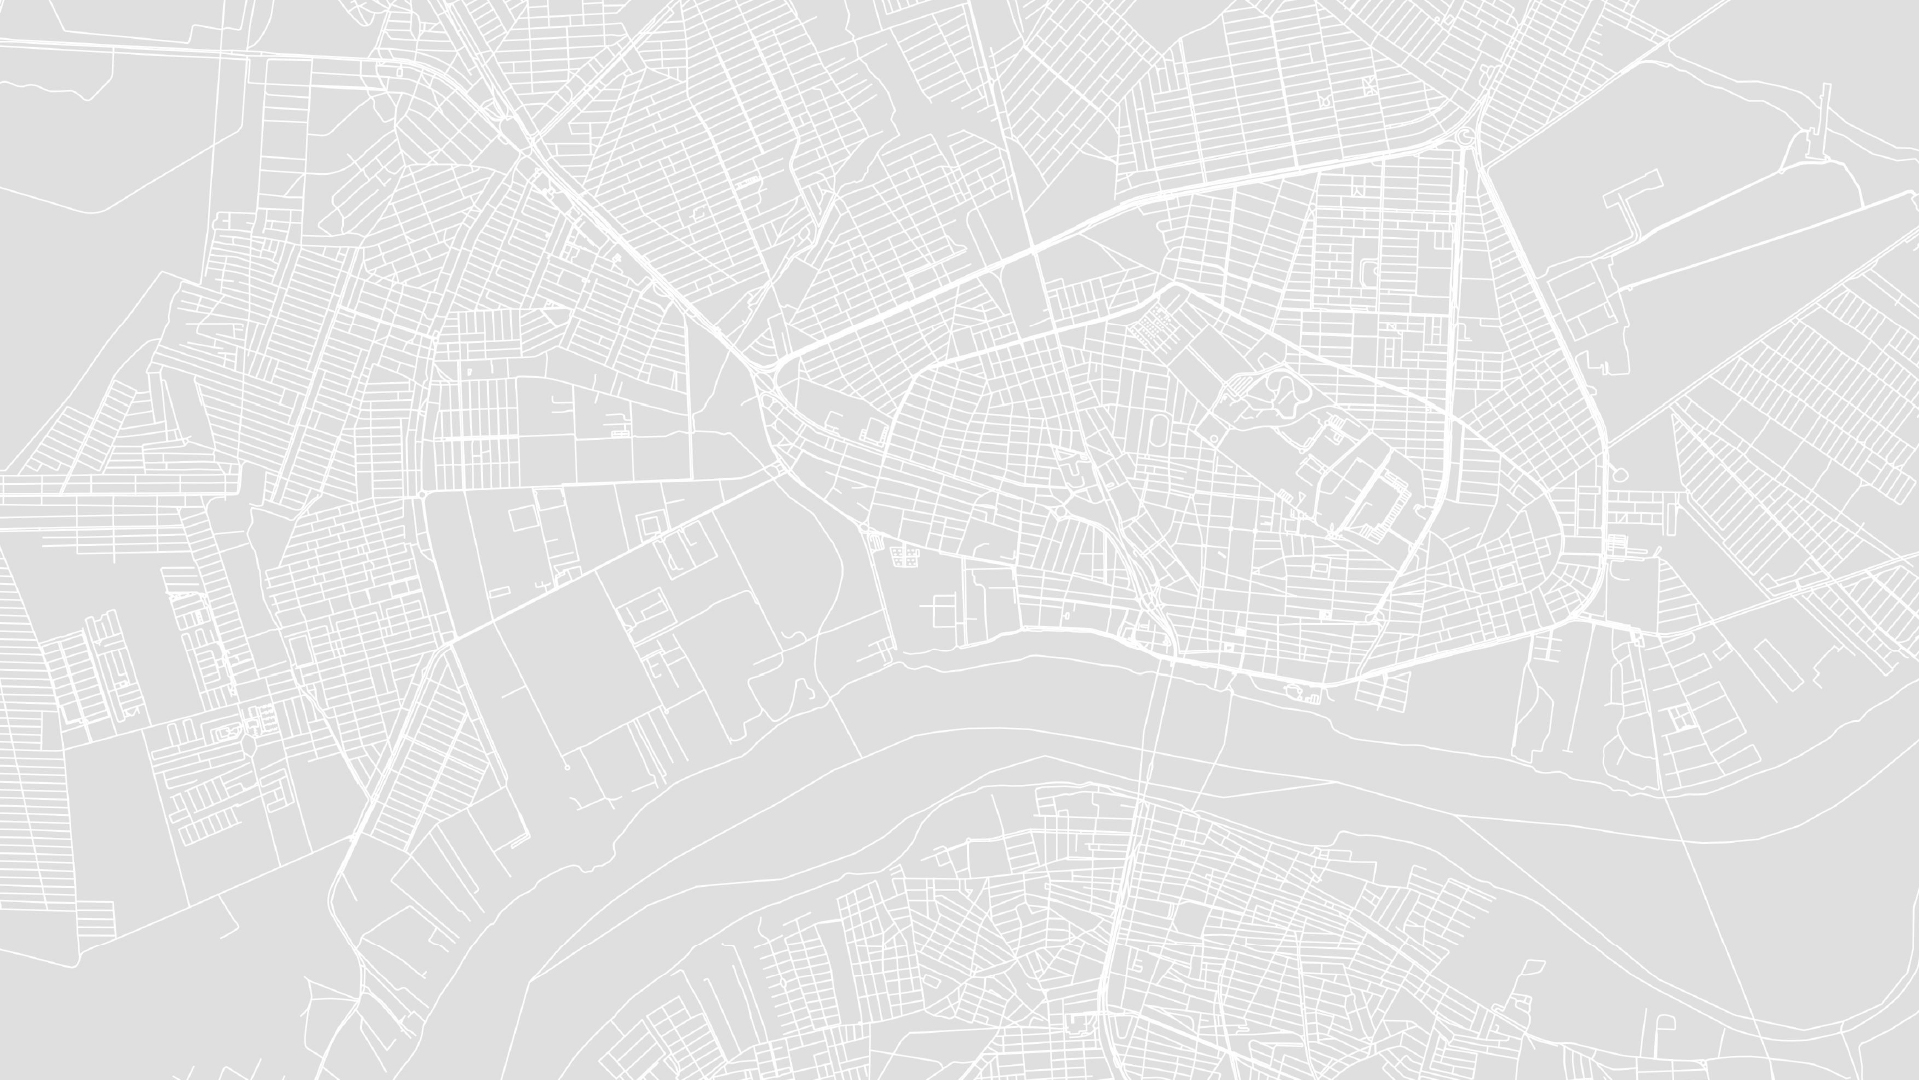
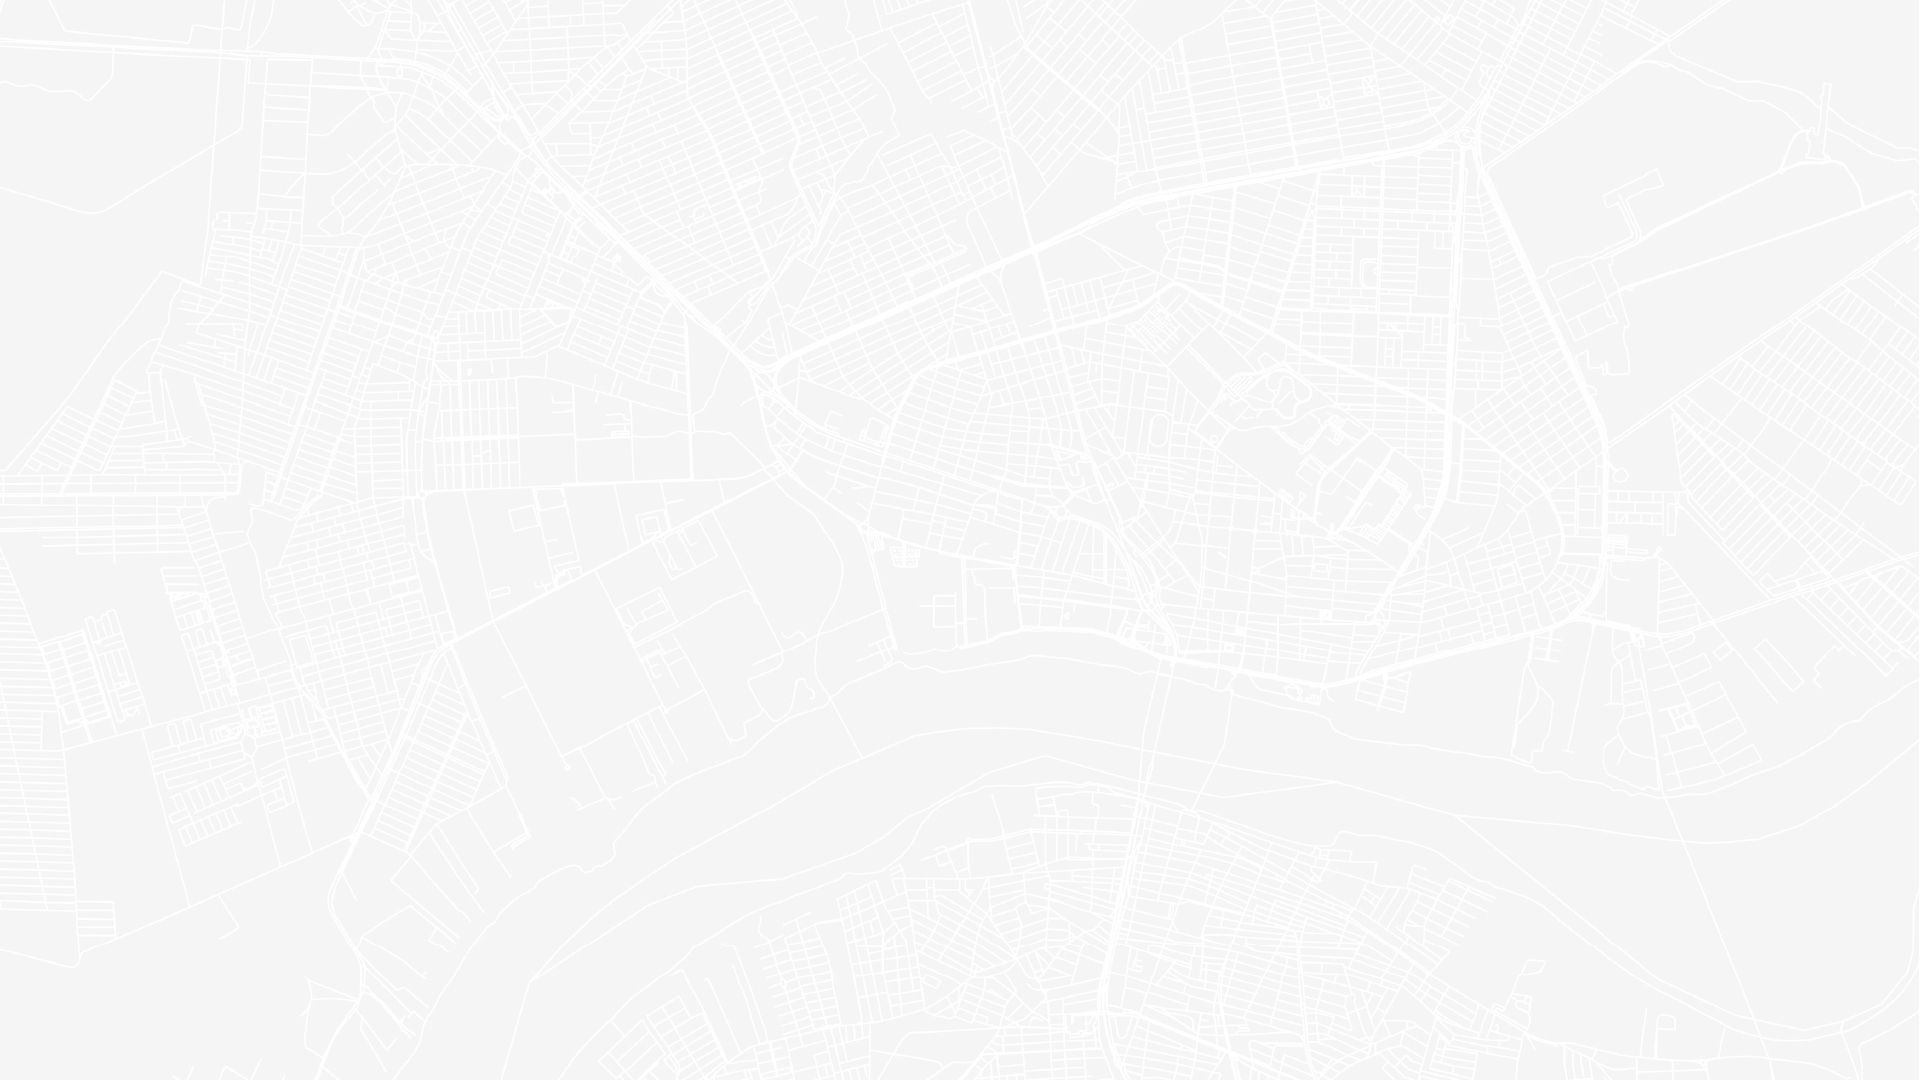
att_color

diff --git a/_includes/social.html b/_includes/social.html
@@ -65,7 +65,7 @@
             <a href="https://www.last.fm/user/{{ site.lastfm_id }}" title="Last FM"><i class="fab fa-lastfm"></i></a>
             {% endif %}
             {%- if site.spotify_id -%}
-            <a href="https://open.spotify.com/user/{{ site.spotify_id }}" title="Last FM"><i class="fab fa-spotify"></i></a>
+            <a href="https://open.spotify.com/user/{{ site.spotify_id }}" title="Spotify"><i class="fab fa-spotify"></i></a>
             {% endif %}
             {%- if site.pinterest_id -%}
             <a href="https://www.pinterest.com/{{ site.pinterest_id }}" title="Pinterest"><i class="fab fa-pinterest"></i></a>

diff --git a/_sass/_layout.scss b/_sass/_layout.scss
@@ -4,10 +4,11 @@
 
  body 
  {
- background-image: url('../img/fundo_site-1400.webp');
+ background-image: url('../img/fundo_site.jpg') ;
  background-repeat: repeat;
- background-size: none;
+ background-size: contain;
  background-position: center center;
+ // background-color: rgba($color: #111111, $alpha: 0.3);
  }
 
 body.fixed-top-nav {

diff --git a/_sass/_base.scss b/_sass/_base.scss
@@ -162,6 +162,9 @@ blockquote {
       background-color: var(--global-bg-color);
     }
 }
+#navbar {
+  padding: 0%;
+}
 .navbar.navbar-light {
   a {
     &:hover {
